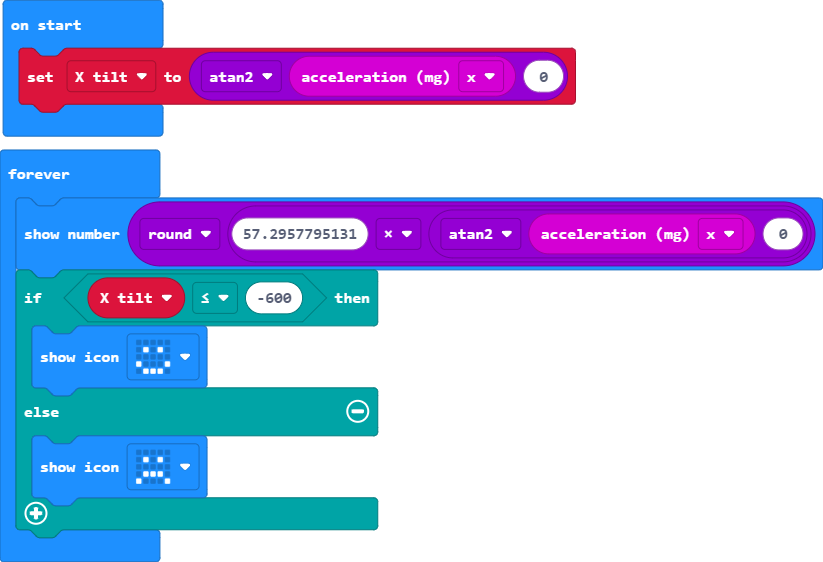
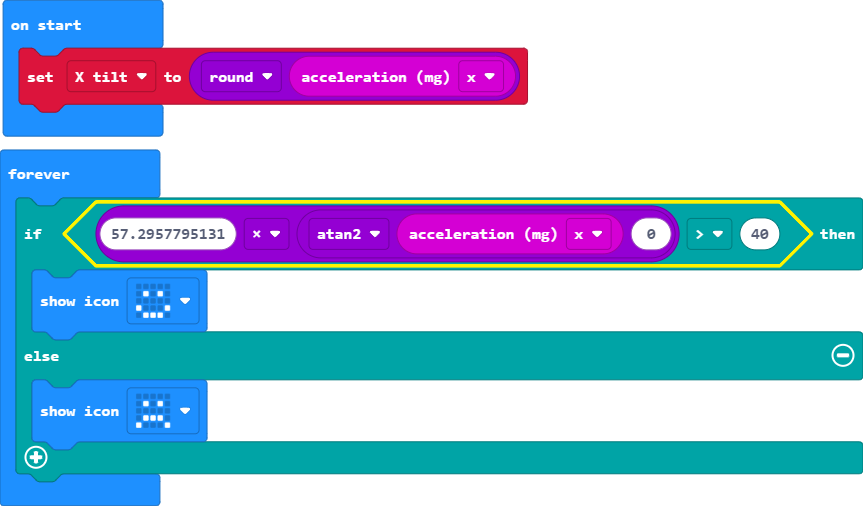
Update main.blocks, main.ts

diff --git a/main.ts b/main.ts
@@ -1,7 +1,6 @@
-let X_tilt = Math.atan2(input.acceleration(Dimension.X), 0)
+let X_tilt = Math.round(input.acceleration(Dimension.X))
 basic.forever(function () {
-    basic.showNumber(Math.round(57.2957795131 * Math.atan2(input.acceleration(Dimension.X), 0)))
-    if (X_tilt <= -600) {
+    if (57.2957795131 * Math.atan2(input.acceleration(Dimension.X), 0) > 40) {
         basic.showIcon(IconNames.Happy)
     } else {
         basic.showIcon(IconNames.Sad)
